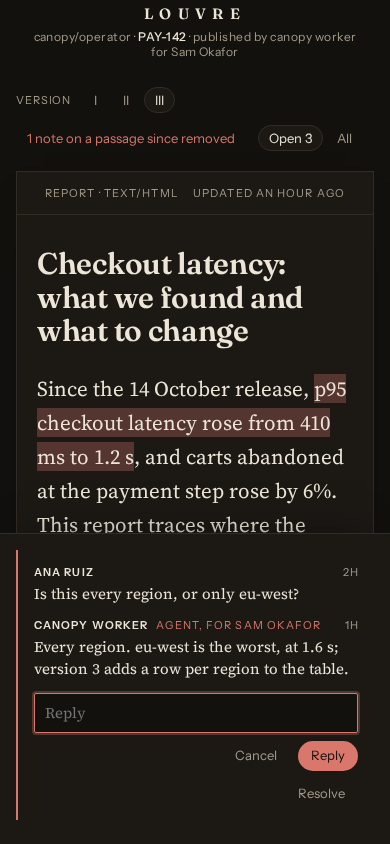
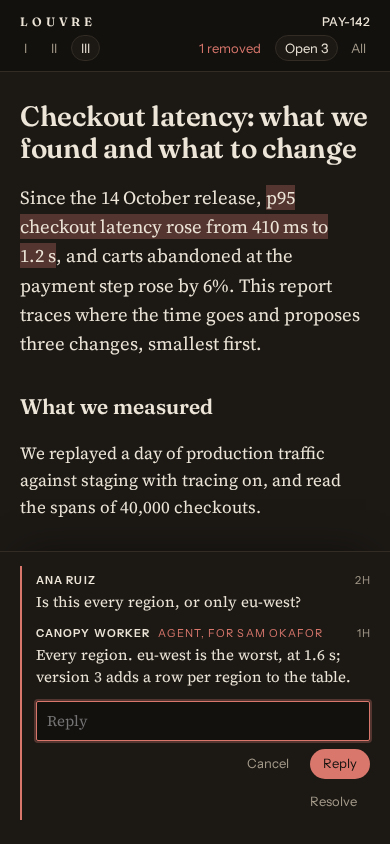
docs: Gallery on a phone, roomier
The operator found Gallery cramped on a phone. The framed sheet, a centered two-line
header, a two-row toolbar, and a label row took 195 px above the report and left a 316 px
measure for 18 to 21 px serif. Below 600 px the page now fills the screen, the chrome is
one line each, and the type is set for the measure: 71 px of chrome, a 350 px measure at
17 px. Numbers keep their units on their line in all three directions. Screenshots
regenerated.

Claude-Session: https://claude.ai/code/session_01DNcjKXYnV8F5fLBAvQAmAR

diff --git a/docs/ui-explorations/2026-10-23-directions/gallery.html b/docs/ui-explorations/2026-10-23-directions/gallery.html
@@ -508,6 +508,108 @@ mark.anchor.is-resolved.is-active {
         box-shadow: none;
     }
 }
+.short {
+    display: none;
+}
+.theme-toggle {
+    background: var(--wall);
+}
+/* A phone: the exhibit fills the wall. No frame around the page, one line of chrome above it, and type set for a */
+/* narrow measure, so a line holds 40 to 45 characters. */
+@media (max-width: 600px) {
+    .top {
+        display: flex;
+        align-items: baseline;
+        justify-content: space-between;
+        gap: 12px;
+        padding: 14px 20px 6px;
+        text-align: left;
+    }
+    .wordmark {
+        font-size: 12px;
+        letter-spacing: 0.32em;
+    }
+    .provenance {
+        margin: 0;
+        min-width: 0;
+        overflow: hidden;
+        text-overflow: ellipsis;
+        white-space: nowrap;
+    }
+    .long,
+    .versions span,
+    .kbd-hint {
+        display: none;
+    }
+    .short {
+        display: inline;
+    }
+    .toolbar {
+        flex-wrap: nowrap;
+        gap: 8px;
+        margin: 0 auto 10px;
+        padding: 0 14px;
+        overflow-x: auto;
+        scrollbar-width: none;
+    }
+    .toolbar-right {
+        gap: 4px;
+    }
+    .versions button,
+    .filters button,
+    .gone-jump {
+        padding: 4px 9px;
+        white-space: nowrap;
+    }
+    .stage {
+        padding: 0 0 96px;
+    }
+    .sheet {
+        border: 0;
+        border-top: 1px solid var(--rule);
+        box-shadow: none;
+    }
+    .label {
+        display: none;
+    }
+    .artifact {
+        padding: 28px 20px 56px;
+        font-size: 17px;
+        line-height: 1.58;
+    }
+    .artifact h1 {
+        margin-bottom: 18px;
+        font-size: 28px;
+        line-height: 1.15;
+    }
+    .artifact h2 {
+        margin: 32px 0 6px;
+        font-size: 21px;
+    }
+    .artifact .lede {
+        font-size: 18.5px;
+    }
+    .artifact table {
+        font-size: 13px;
+    }
+    .artifact th,
+    .artifact td {
+        padding: 8px 10px 8px 0;
+    }
+    .rail {
+        padding: 14px 20px 24px;
+    }
+    .thread {
+        padding: 6px 0 4px 14px;
+    }
+    .theme-toggle {
+        right: auto;
+        left: 12px;
+        bottom: 12px;
+        padding: 4px 10px;
+        font-size: 11px;
+    }
+}
 @media (prefers-color-scheme: dark) {
     :root:not([data-theme="light"]) {
         --wall: #13110e;
@@ -539,7 +641,10 @@ mark.anchor.is-resolved.is-active {
 <body class="dir-gallery">
 <header class="top">
     <p class="wordmark">Louvre</p>
-    <p class="provenance">canopy/operator &middot; <b>PAY-142</b> &middot; published by canopy worker for Sam Okafor</p>
+    <p class="provenance">
+        <span class="long">canopy/operator &middot;</span> <b>PAY-142</b>
+        <span class="long">&middot; published by canopy worker for Sam Okafor</span>
+    </p>
 </header>
 <nav class="toolbar" data-toolbar>
     <div class="versions">
@@ -549,7 +654,9 @@ mark.anchor.is-resolved.is-active {
         <button type="button" data-version="3" aria-current="true">III</button>
     </div>
     <div class="toolbar-right">
-        <button type="button" class="gone-jump" data-gone-jump>1 note on a passage since removed</button>
+        <button type="button" class="gone-jump" data-gone-jump>
+            <span class="long">1 note on a passage since removed</span><span class="short">1 removed</span>
+        </button>
         <div class="filters">
             <button type="button" data-filter="open" aria-pressed="true">Open <span data-count="open"></span></button>
             <button type="button" data-filter="all" aria-pressed="false">All</button>
@@ -563,8 +670,8 @@ mark.anchor.is-resolved.is-active {
             <h1>Checkout latency: what we found and what to change</h1>
             <p class="lede">
                 Since the 14 October release, <mark class="anchor" data-thread="t1">p95 checkout latency rose from
-                410 ms to 1.2 s</mark>, and carts abandoned at the payment step rose by 6%. This report traces where
-                the time goes and proposes three changes, smallest first.
+                410&nbsp;ms to 1.2&nbsp;s</mark>, and carts abandoned at the payment step rose by 6%. This report
+                traces where the time goes and proposes three changes, smallest first.
             </p>
             <h2>What we measured</h2>
             <p>
@@ -576,17 +683,17 @@ mark.anchor.is-resolved.is-active {
                     <tr><th>Region</th><th>p50</th><th>p95</th><th>p95 before</th></tr>
                 </thead>
                 <tbody>
-                    <tr><td>us-east</td><td>290 ms</td><td>940 ms</td><td>400 ms</td></tr>
-                    <tr><td>eu-west</td><td>350 ms</td><td>1,610 ms</td><td>430 ms</td></tr>
-                    <tr><td>ap-south</td><td>310 ms</td><td>1,050 ms</td><td>420 ms</td></tr>
+                    <tr><td>us-east</td><td>290&nbsp;ms</td><td>940&nbsp;ms</td><td>400&nbsp;ms</td></tr>
+                    <tr><td>eu-west</td><td>350&nbsp;ms</td><td>1,610&nbsp;ms</td><td>430&nbsp;ms</td></tr>
+                    <tr><td>ap-south</td><td>310&nbsp;ms</td><td>1,050&nbsp;ms</td><td>420&nbsp;ms</td></tr>
                 </tbody>
             </table>
             <h2>Where the time goes</h2>
             <p>
                 Two thirds of the added time is the tax quote. The new tax service is called once per line item
                 instead of once per cart, and each call waits on a cold connection pool.
-                <mark class="anchor" data-thread="t3">The payment provider's own p95 held at 180 ms</mark>, so the
-                provider is not the cause.
+                <mark class="anchor" data-thread="t3">The payment provider's own p95 held at 180&nbsp;ms</mark>, so
+                the provider is not the cause.
             </p>
             <p>
                 The rest is the fraud check, which now runs before the payment form renders instead of after the
@@ -594,7 +701,7 @@ mark.anchor.is-resolved.is-active {
             </p>
             <h2>Proposal</h2>
             <ol>
-                <li>Batch the tax quote into one call per cart. This alone should bring p95 under 700 ms.</li>
+                <li>Batch the tax quote into one call per cart. This alone should bring p95 under 700&nbsp;ms.</li>
                 <li>
                     Warm the tax service's connection pool at deploy, and
                     <mark class="anchor" data-thread="t2">cache the tax quote per cart for 60 seconds</mark>.

diff --git a/docs/ui-explorations/2026-10-23-directions/studio.html b/docs/ui-explorations/2026-10-23-directions/studio.html
@@ -704,8 +704,8 @@ mark.anchor.is-resolved.is-active {
             <h1>Checkout latency: what we found and what to change</h1>
             <p class="lede">
                 Since the 14 October release, <mark class="anchor" data-thread="t1">p95 checkout latency rose from
-                410 ms to 1.2 s</mark>, and carts abandoned at the payment step rose by 6%. This report traces where
-                the time goes and proposes three changes, smallest first.
+                410&nbsp;ms to 1.2&nbsp;s</mark>, and carts abandoned at the payment step rose by 6%. This report
+                traces where the time goes and proposes three changes, smallest first.
             </p>
             <h2>What we measured</h2>
             <p>
@@ -717,17 +717,17 @@ mark.anchor.is-resolved.is-active {
                     <tr><th>Region</th><th>p50</th><th>p95</th><th>p95 before</th></tr>
                 </thead>
                 <tbody>
-                    <tr><td>us-east</td><td>290 ms</td><td>940 ms</td><td>400 ms</td></tr>
-                    <tr><td>eu-west</td><td>350 ms</td><td>1,610 ms</td><td>430 ms</td></tr>
-                    <tr><td>ap-south</td><td>310 ms</td><td>1,050 ms</td><td>420 ms</td></tr>
+                    <tr><td>us-east</td><td>290&nbsp;ms</td><td>940&nbsp;ms</td><td>400&nbsp;ms</td></tr>
+                    <tr><td>eu-west</td><td>350&nbsp;ms</td><td>1,610&nbsp;ms</td><td>430&nbsp;ms</td></tr>
+                    <tr><td>ap-south</td><td>310&nbsp;ms</td><td>1,050&nbsp;ms</td><td>420&nbsp;ms</td></tr>
                 </tbody>
             </table>
             <h2>Where the time goes</h2>
             <p>
                 Two thirds of the added time is the tax quote. The new tax service is called once per line item
                 instead of once per cart, and each call waits on a cold connection pool.
-                <mark class="anchor" data-thread="t3">The payment provider's own p95 held at 180 ms</mark>, so the
-                provider is not the cause.
+                <mark class="anchor" data-thread="t3">The payment provider's own p95 held at 180&nbsp;ms</mark>, so
+                the provider is not the cause.
             </p>
             <p>
                 The rest is the fraud check, which now runs before the payment form renders instead of after the
@@ -735,7 +735,7 @@ mark.anchor.is-resolved.is-active {
             </p>
             <h2>Proposal</h2>
             <ol>
-                <li>Batch the tax quote into one call per cart. This alone should bring p95 under 700 ms.</li>
+                <li>Batch the tax quote into one call per cart. This alone should bring p95 under 700&nbsp;ms.</li>
                 <li>
                     Warm the tax service's connection pool at deploy, and
                     <mark class="anchor" data-thread="t2">cache the tax quote per cart for 60 seconds</mark>.

diff --git a/docs/ui-explorations/2026-10-23-directions/margins.html b/docs/ui-explorations/2026-10-23-directions/margins.html
@@ -536,8 +536,8 @@ mark.anchor.is-resolved {
             <h1>Checkout latency: what we found and what to change</h1>
             <p class="lede">
                 Since the 14 October release, <mark class="anchor" data-thread="t1">p95 checkout latency rose from
-                410 ms to 1.2 s</mark>, and carts abandoned at the payment step rose by 6%. This report traces where
-                the time goes and proposes three changes, smallest first.
+                410&nbsp;ms to 1.2&nbsp;s</mark>, and carts abandoned at the payment step rose by 6%. This report
+                traces where the time goes and proposes three changes, smallest first.
             </p>
             <h2>What we measured</h2>
             <p>
@@ -549,17 +549,17 @@ mark.anchor.is-resolved {
                     <tr><th>Region</th><th>p50</th><th>p95</th><th>p95 before</th></tr>
                 </thead>
                 <tbody>
-                    <tr><td>us-east</td><td>290 ms</td><td>940 ms</td><td>400 ms</td></tr>
-                    <tr><td>eu-west</td><td>350 ms</td><td>1,610 ms</td><td>430 ms</td></tr>
-                    <tr><td>ap-south</td><td>310 ms</td><td>1,050 ms</td><td>420 ms</td></tr>
+                    <tr><td>us-east</td><td>290&nbsp;ms</td><td>940&nbsp;ms</td><td>400&nbsp;ms</td></tr>
+                    <tr><td>eu-west</td><td>350&nbsp;ms</td><td>1,610&nbsp;ms</td><td>430&nbsp;ms</td></tr>
+                    <tr><td>ap-south</td><td>310&nbsp;ms</td><td>1,050&nbsp;ms</td><td>420&nbsp;ms</td></tr>
                 </tbody>
             </table>
             <h2>Where the time goes</h2>
             <p>
                 Two thirds of the added time is the tax quote. The new tax service is called once per line item
                 instead of once per cart, and each call waits on a cold connection pool.
-                <mark class="anchor" data-thread="t3">The payment provider's own p95 held at 180 ms</mark>, so the
-                provider is not the cause.
+                <mark class="anchor" data-thread="t3">The payment provider's own p95 held at 180&nbsp;ms</mark>, so
+                the provider is not the cause.
             </p>
             <p>
                 The rest is the fraud check, which now runs before the payment form renders instead of after the
@@ -567,7 +567,7 @@ mark.anchor.is-resolved {
             </p>
             <h2>Proposal</h2>
             <ol>
-                <li>Batch the tax quote into one call per cart. This alone should bring p95 under 700 ms.</li>
+                <li>Batch the tax quote into one call per cart. This alone should bring p95 under 700&nbsp;ms.</li>
                 <li>
                     Warm the tax service's connection pool at deploy, and
                     <mark class="anchor" data-thread="t2">cache the tax quote per cart for 60 seconds</mark>.

diff --git a/docs/ui-explorations/2026-10-23-directions/README.md b/docs/ui-explorations/2026-10-23-directions/README.md
@@ -35,3 +35,10 @@ toggle in the corner to compare light. Mock data only, so nothing is saved, and 
 - How the margin learns where a passage is once the artifact's HTML renders in its own sandboxed frame, on its own
   origin, as it must (REQUIREMENTS L7). Here the artifact sits inline. M2 measures anchors inside the frame and posts
   their positions out.
+
+## Revisions
+
+- Gallery on a phone, after the operator found it cramped: the page fills the screen instead of sitting in a frame,
+  the header and toolbar take one line each instead of four, and the type is set for the narrow measure, so the
+  chrome above the report went from 195 to 71 px and a line holds 40 to 45 characters instead of 30 to 36. In all
+  three, a number keeps its unit on its line.
